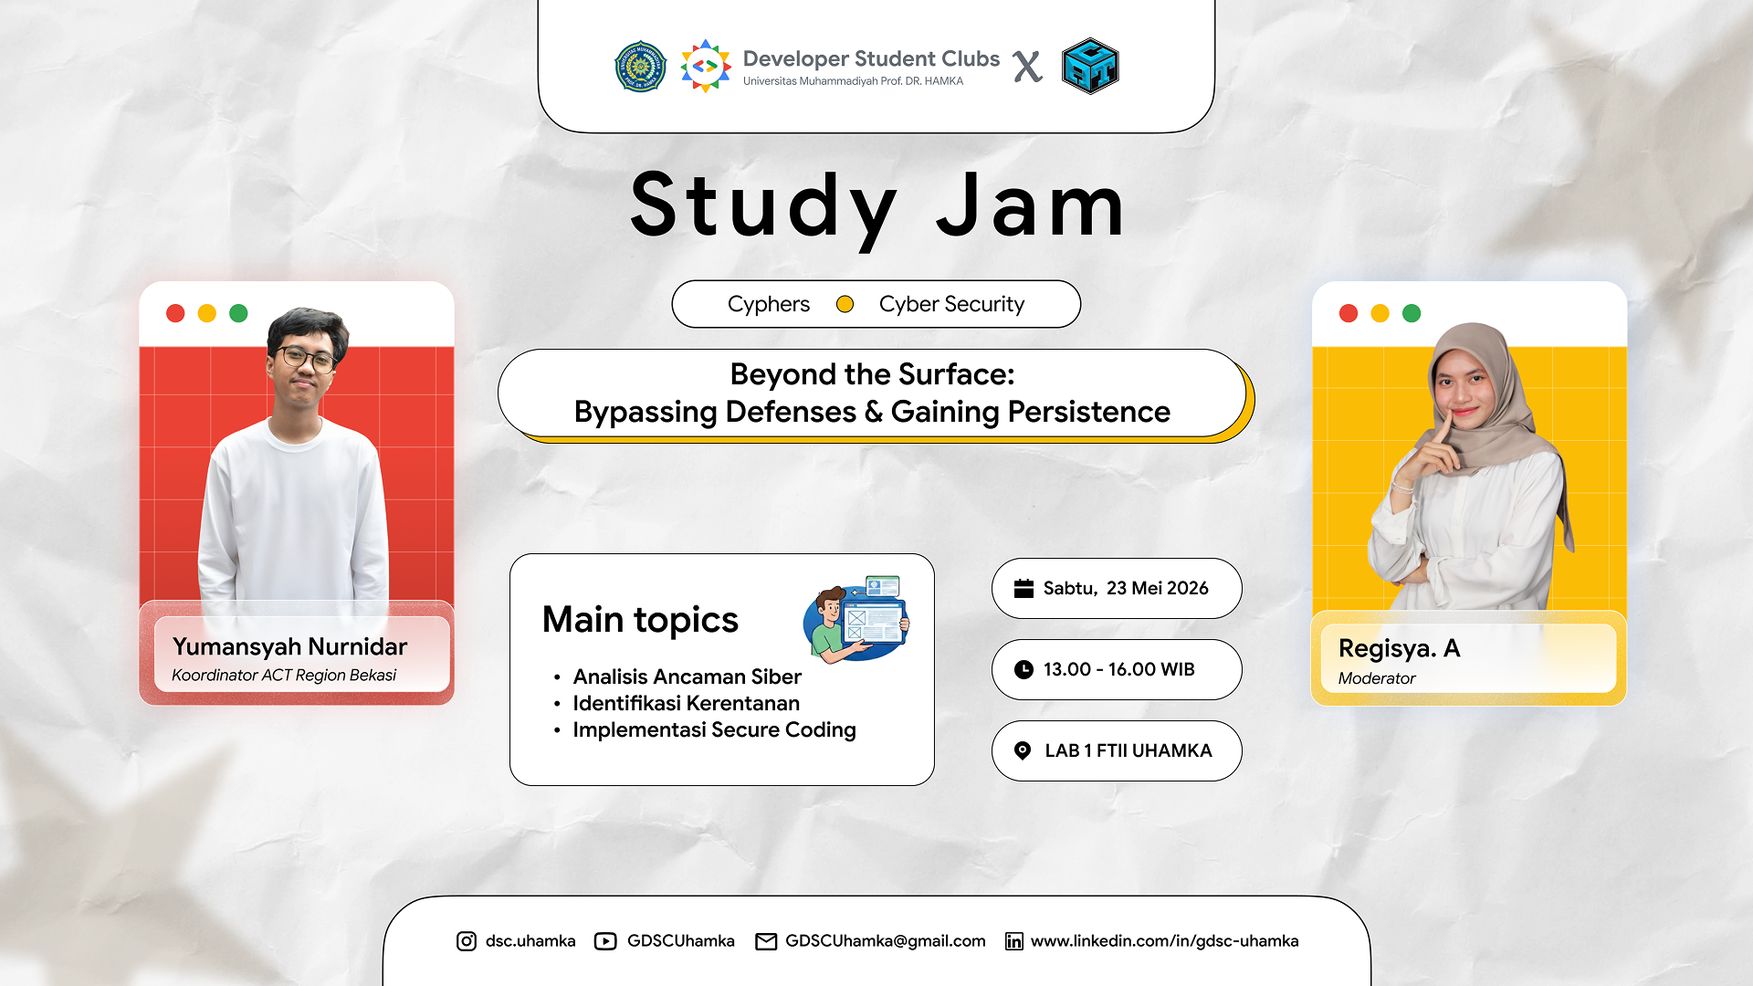
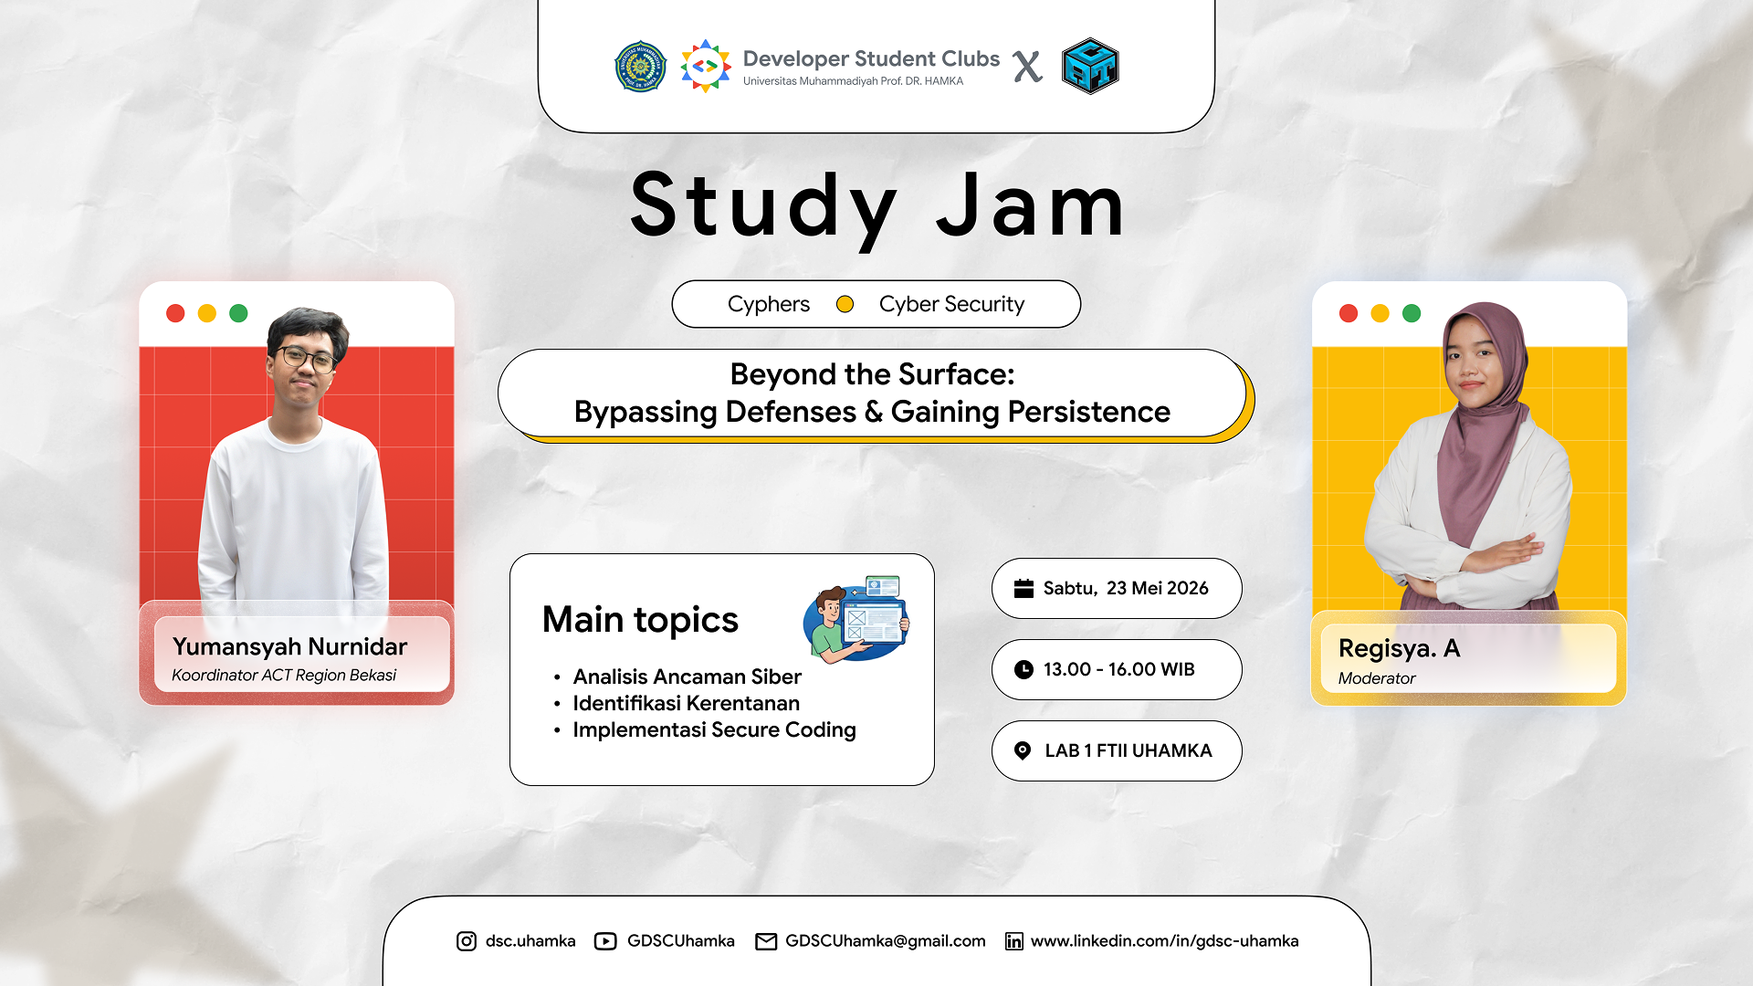
Update Terbaru

Changed region(s): [[0.7812, 0.3056, 0.9062, 0.6722], [0.7812, 0.7028, 0.9062, 0.7333]]

diff --git a/resources/css/app.css b/resources/css/app.css
@@ -19,7 +19,7 @@
 
      body {
     background: #ffffff;
-    font-family: 'Open Sans', sans-serif;
+    font-family: "Google Sans", sans-serif;
 }
 
 
@@ -30,6 +30,7 @@
     position: relative; /* Wajib ada agar gambar tidak lari ke luar section */
     overflow: hidden;    /* Agar jika gambar terlalu besar, tidak muncul scrollbar */
     text-align: center;
+    font-family: "Google Sans", sans-serif;
 }
 
 
@@ -993,12 +994,9 @@
 .footer-bottom {
     background-color: #FAFAFA; /* Warna abu-abu full */
   
-    width: 1000px;
+    width: 100%;
     position: relative;
-    left: 58.5%;
-    right: 50%;
-    margin-left: -50vw;
-    margin-right: -50vw;
+    
 }
 @media (max-width: 768px) {
     .footer-bottom {
@@ -1581,7 +1579,7 @@ body {
 }
 
 /* Container & Fonts */
-.container { font-family: 'Inter', sans-serif; }
+.container { font-family: "Google Sans", sans-serif; }
 
 .container-card {
     position: relative;

diff --git a/resources/views/team.blade.php b/resources/views/team.blade.php
@@ -53,16 +53,16 @@
                 <p class="text-primary small mb-1">PIC - Secretary</p>
                 <p class="text-muted small mb-3">Managing administration & community records.</p>
                 <div class="social-links-small">
-                    <a href="#" class="d-inline-block">
+                    <a href="https://www.linkedin.com/in/adinda-wulandari-anggraini-6254152b4?utm_source=share&utm_campaign=share_via&utm_content=profile&utm_medium=ios_app" class="d-inline-block">
             <img src="{{ asset('images/linkedin2.svg') }}" style="width: 20px; height: auto;">
         </a>
-                    <a href="#" class="d-inline-block">
+                    <a href="https://g.dev/adindawulandarianggraini" class="d-inline-block">
             <img src="{{ asset('images/code.svg') }}" style="width: 20px; height: auto;">
         </a>
                    <a href="#" class="d-inline-block">
             <img src="{{ asset('images/ig.svg') }}" style="width: 20px; height: auto;">
         </a>
-                    <a href="#" class="d-inline-block">
+                    <a href="https://github.com/adindawulandari" class="d-inline-block">
             <img src="{{ asset('images/github.svg') }}" style="width: 20px; height: auto;">
         </a>
                     
@@ -77,16 +77,16 @@
                 <p class="text-primary small mb-1">PIC - The Pixels</p>
                 <p class="text-muted small mb-3">Crafting intuitive & beautiful user experiences.</p>
                 <div class="social-links-small">
-                    <a href="#" class="d-inline-block">
+                    <a href="https://www.linkedin.com/in/firdaus-firmansyah-2027352a1/" class="d-inline-block">
             <img src="{{ asset('images/linkedin2.svg') }}" style="width: 20px; height: auto;">
         </a>
-                    <a href="#" class="d-inline-block">
+                    <a href="https://g.dev/daussaurus" class="d-inline-block">
             <img src="{{ asset('images/code.svg') }}" style="width: 20px; height: auto;">
         </a>
-                    <a href="#" class="d-inline-block">
+                    <a href="https://www.instagram.com/daussfh/" class="d-inline-block">
             <img src="{{ asset('images/ig.svg') }}" style="width: 20px; height: auto;">
         </a>
-                    <a href="#" class="d-inline-block">
+                    <a href="https://github.com/Firdaus-Firmansyah" class="d-inline-block">
             <img src="{{ asset('images/github.svg') }}" style="width: 20px; height: auto;">
         </a>
                 </div>
@@ -150,10 +150,10 @@
         </a>
             <img src="{{ asset('images/github.svg') }}" style="width: 20px; height: auto;">
         </a></div></div></div>
-        <div class="col-lg-3 col-md-6"><div class="member-card" style="text-align: left !important; align-items: flex-start !important;"><img src="images/ardi.webp" class="img-fluid rounded-4 mb-3"> <h5 class="fw-bold mb-1">Ardi Setiawan</h5><p class="text-primary small mb-1">The Pixels</p><p class="text-muted small mb-3">Crafting intuitive & beautiful user experiences.</p><div class="social-links-small"><a href="#" class="d-inline-block">
+        <div class="col-lg-3 col-md-6"><div class="member-card" style="text-align: left !important; align-items: flex-start !important;"><img src="images/ardi.webp" class="img-fluid rounded-4 mb-3"> <h5 class="fw-bold mb-1">Ardi Setiawan</h5><p class="text-primary small mb-1">The Pixels</p><p class="text-muted small mb-3">Crafting intuitive & beautiful user experiences.</p><div class="social-links-small"><a href="https://id.linkedin.com/in/ardi-setiawan1" class="d-inline-block">
             <img src="{{ asset('images/linkedin2.svg') }}" style="width: 20px; height: auto;">
         </a><a href="#" class="d-inline-block">
-            <a href="#" class="d-inline-block">
+            <a href="https://g.dev/ardisetiawan1" class="d-inline-block">
             <img src="{{ asset('images/code.svg') }}" style="width: 20px; height: auto;">
         </a>
                     <a href="#" class="d-inline-block">
@@ -161,26 +161,27 @@
         </a>
             <img src="{{ asset('images/github.svg') }}" style="width: 20px; height: auto;">
         </a></div></div></div>
-        <div class="col-lg-3 col-md-6"><div class="member-card" style="text-align: left !important; align-items: flex-start !important;"><img src="images/ziyah.webp" class="img-fluid rounded-4 mb-3"> <h5 class="fw-bold mb-1">Fauziyah Salsabila</h5><p class="text-primary small mb-1">The Vectors</p><p class="text-muted small mb-3">Building scalable web & mobile solutions.</p><div class="social-links-small"><a href="#" class="d-inline-block">
+        <div class="col-lg-3 col-md-6"><div class="member-card" style="text-align: left !important; align-items: flex-start !important;"><img src="images/ziyah.webp" class="img-fluid rounded-4 mb-3"> <h5 class="fw-bold mb-1">Fauziyah Salsabila</h5><p class="text-primary small mb-1">The Vectors</p><p class="text-muted small mb-3">Building scalable web & mobile solutions.</p><div class="social-links-small"><a href="https://www.linkedin.com/in/fauziyah-salsabila-64434331a?utm_source=share&utm_campaign=share_via&utm_content=profile&utm_medium=android_app" class="d-inline-block">
             <img src="{{ asset('images/linkedin2.svg') }}" style="width: 20px; height: auto;">
-        </a><a href="#" class="d-inline-block">
-            <a href="#" class="d-inline-block">
+        </a>
+            <a href="https://g.dev/fauziyah" class="d-inline-block">
             <img src="{{ asset('images/code.svg') }}" style="width: 20px; height: auto;">
         </a>
-                    <a href="#" class="d-inline-block">
+                    <a href="https://www.instagram.com/ziyahslsa/?utm_source=ig_web_button_share_sheet" class="d-inline-block">
             <img src="{{ asset('images/ig.svg') }}" style="width: 20px; height: auto;">
-        </a>
+        </a><a href="https://github.com/ziyasalsa" class="d-inline-block">
             <img src="{{ asset('images/github.svg') }}" style="width: 20px; height: auto;">
         </a></div></div></div>
-        <div class="col-lg-3 col-md-6"><div class="member-card" style="text-align: left !important; align-items: flex-start !important;"><img src="images/deta.webp" class="img-fluid rounded-4 mb-3"> <h5 class="fw-bold mb-1">Regissya Anfieldasari F. A.</h5><p class="text-primary small mb-1">The Cyphers</p><p class="text-muted small mb-3">Securing systems & exploring IoT connectivity.</p><div class="social-links-small"><a href="#" class="d-inline-block">
+        <div class="col-lg-3 col-md-6"><div class="member-card" style="text-align: left !important; align-items: flex-start !important;"><img src="images/deta.webp" class="img-fluid rounded-4 mb-3"> <h5 class="fw-bold mb-1">Regissya Anfieldasari F. A.</h5><p class="text-primary small mb-1">The Cyphers</p><p class="text-muted small mb-3">Securing systems & exploring IoT connectivity.</p><div class="social-links-small"><a href="http://www.linkedin.com/in/regissya-anfieldasari-1b4a0b348" class="d-inline-block">
             <img src="{{ asset('images/linkedin2.svg') }}" style="width: 20px; height: auto;">
-        </a><a href="#" class="d-inline-block">
-            <a href="#" class="d-inline-block">
+        </a>
+            <a href="https://developers.google.com/profile/u/RegissyaAnfieldasari" class="d-inline-block">
             <img src="{{ asset('images/code.svg') }}" style="width: 20px; height: auto;">
         </a>
-                    <a href="#" class="d-inline-block">
+                    <a href="https://www.instagram.com/anfld__?igsh=MWV1am12NzIyMWk1Zg==" class="d-inline-block">
             <img src="{{ asset('images/ig.svg') }}" style="width: 20px; height: auto;">
         </a>
+             <a href="https://github.com/gyuuniversee" class="d-inline-block">
             <img src="{{ asset('images/github.svg') }}" style="width: 20px; height: auto;">
         </a></div></div></div>
 
@@ -210,15 +211,16 @@
         </a>
             <img src="{{ asset('images/github.svg') }}" style="width: 20px; height: auto;">
         </a></div></div></div>
-        <div class="col-lg-3 col-md-6"><div class="member-card" style="text-align: left !important; align-items: flex-start !important;"><img src="images/indah.webp" class="img-fluid rounded-4 mb-3"> <h5 class="fw-bold mb-1">Adisyah Indah Nurkusuma</h5><p class="text-primary small mb-1">The Vectors</p><p class="text-muted small mb-3">Building scalable web & mobile solutions.</p><div class="social-links-small"><a href="#" class="d-inline-block">
+        <div class="col-lg-3 col-md-6"><div class="member-card" style="text-align: left !important; align-items: flex-start !important;"><img src="images/indah.webp" class="img-fluid rounded-4 mb-3"> <h5 class="fw-bold mb-1">Adisyah Indah Nurkusuma</h5><p class="text-primary small mb-1">The Vectors</p><p class="text-muted small mb-3">Building scalable web & mobile solutions.</p><div class="social-links-small"><a href="https://www.linkedin.com/in/adisyah-indah-nurkusuma-297b172b3?utm_source=share&utm_campaign=share_via&utm_content=profile&utm_medium=android_app" class="d-inline-block">
             <img src="{{ asset('images/linkedin2.svg') }}" style="width: 20px; height: auto;">
-        </a><a href="#" class="d-inline-block">
-            <a href="#" class="d-inline-block">
+        </a>
+            <a href="https://g.dev/Adisyah65" class="d-inline-block">
             <img src="{{ asset('images/code.svg') }}" style="width: 20px; height: auto;">
         </a>
-                    <a href="#" class="d-inline-block">
+                    <a href="https://www.instagram.com/dsyh.ndh?igsh=MTNzanR2ejF2aW1pdw==" class="d-inline-block">
             <img src="{{ asset('images/ig.svg') }}" style="width: 20px; height: auto;">
         </a>
+            <a href="https://github.com/Adisyah65" class="d-inline-block">
             <img src="{{ asset('images/github.svg') }}" style="width: 20px; height: auto;">
         </a></div></div></div>
         <div class="col-lg-3 col-md-6"><div class="member-card" style="text-align: left !important; align-items: flex-start !important;"><img src="images/aura.webp" class="img-fluid rounded-4 mb-3"> <h5 class="fw-bold mb-1">Aura Shyifa Aulia</h5><p class="text-primary small mb-1">The Cyphers</p><p class="text-muted small mb-3">Securing systems & exploring IoT connectivity.</p><div class="social-links-small"><a href="#" class="d-inline-block">
@@ -244,15 +246,16 @@
         </a>
             <img src="{{ asset('images/github.svg') }}" style="width: 20px; height: auto;">
         </a></div></div></div>
-        <div class="col-lg-3 col-md-6"><div class="member-card" style="text-align: left !important; align-items: flex-start !important;"><img src="images/rifqi.webp" class="img-fluid rounded-4 mb-3"> <h5 class="fw-bold mb-1">Rifqi Hakim</h5><p class="text-primary small mb-1">The Vectors</p><p class="text-muted small mb-3">Building scalable web & mobile solutions.</p><div class="social-links-small"><a href="#" class="d-inline-block">
+        <div class="col-lg-3 col-md-6"><div class="member-card" style="text-align: left !important; align-items: flex-start !important;"><img src="images/rifqi.webp" class="img-fluid rounded-4 mb-3"> <h5 class="fw-bold mb-1">Rifqi Hakim</h5><p class="text-primary small mb-1">The Vectors</p><p class="text-muted small mb-3">Building scalable web & mobile solutions.</p><div class="social-links-small"><a href="https://www.linkedin.com/in/rifqi-hakim875094285/" class="d-inline-block">
             <img src="{{ asset('images/linkedin2.svg') }}" style="width: 20px; height: auto;">
         </a><a href="#" class="d-inline-block">
-            <a href="#" class="d-inline-block">
+            <a href="https://g.dev/rfqiih" class="d-inline-block">
             <img src="{{ asset('images/code.svg') }}" style="width: 20px; height: auto;">
         </a>
-                    <a href="#" class="d-inline-block">
+                    <a href="https://www.instagram.com/rfqiih?utm_source=ig_web_button_share_sheet&igsh=ZDNlZDc0MzIxNw==" class="d-inline-block">
             <img src="{{ asset('images/ig.svg') }}" style="width: 20px; height: auto;">
         </a>
+            <a href="https://github.com/payscriptt" class="d-inline-block">
             <img src="{{ asset('images/github.svg') }}" style="width: 20px; height: auto;">
         </a></div></div></div>
         <div class="col-lg-3 col-md-6"><div class="member-card" style="text-align: left !important; align-items: flex-start !important;"><img src="images/regis.webp" class="img-fluid rounded-4 mb-3"> <h5 class="fw-bold mb-1">Regissya Anfieldasari F.A.</h5><p class="text-primary small mb-1">The Cyphers</p><p class="text-muted small mb-3">Securing systems & exploring IoT connectivity.</p><div class="social-links-small"><a href="#" class="d-inline-block">
@@ -278,15 +281,16 @@
             <img src="{{ asset('images/github.svg') }}" style="width: 20px; height: auto;">
         </a></div></div></div>
 
-        <div class="col-lg-3 col-md-6"><div class="member-card" style="text-align: left !important; align-items: flex-start !important;"><img src="images/jelita.webp" class="img-fluid rounded-4 mb-3"> <h5 class="fw-bold mb-1">Jelita Eka Putri Rahmadhani </h5><p class="text-primary small mb-1">Content Writer</p><p class="text-muted small mb-3">Storytelling the journey of our community.</p><div class="social-links-small"><a href="#" class="d-inline-block">
+        <div class="col-lg-3 col-md-6"><div class="member-card" style="text-align: left !important; align-items: flex-start !important;"><img src="images/jelita.webp" class="img-fluid rounded-4 mb-3"> <h5 class="fw-bold mb-1">Jelita Eka Putri Rahmadhani </h5><p class="text-primary small mb-1">Content Writer</p><p class="text-muted small mb-3">Storytelling the journey of our community.</p><div class="social-links-small"><a href="https://www.linkedin.com/in/lita-lita" class="d-inline-block">
             <img src="{{ asset('images/linkedin2.svg') }}" style="width: 20px; height: auto;">
-        </a><a href="#" class="d-inline-block">
-            <a href="#" class="d-inline-block">
+        </a>
+            <a href="https://developers.google.com/profile/u/104676974325743817914/edit" class="d-inline-block">
             <img src="{{ asset('images/code.svg') }}" style="width: 20px; height: auto;">
         </a>
-                    <a href="#" class="d-inline-block">
+                    <a href="https://www.instagram.com/putriouz_?igsh=NWxqd3FoZ3A5MnV1" class="d-inline-block">
             <img src="{{ asset('images/ig.svg') }}" style="width: 20px; height: auto;">
         </a>
+             <a href="https://github.com/settings/profile" class="d-inline-block">
             <img src="{{ asset('images/github.svg') }}" style="width: 20px; height: auto;">
         </a></div></div></div>
         <div class="col-lg-3 col-md-6"><div class="member-card" style="text-align: left !important; align-items: flex-start !important;"><img src="images/rakha.webp" class="img-fluid rounded-4 mb-3"> <h5 class="fw-bold mb-1">Rakha Arrayyan Ramdhan</h5><p class="text-primary small mb-1">Graphic Design</p><p class="text-muted small mb-3">Visualizing ideas into stunning creative assets..</p><div class="social-links-small"><a href="#" class="d-inline-block">

diff --git a/resources/views/home.blade.php b/resources/views/home.blade.php
@@ -48,7 +48,7 @@
                 <img src="{{ asset('images/Active.svg') }}">
                 <i class="fas fa-calendar-alt"></i> </div>
             <div class="content">
-                <h2 class="number">20</h2>
+                <h2 class="number">272</h2>
                 <p class="label-1">Active Members</p>
             </div>
         </div>
@@ -58,7 +58,7 @@
                 <img src="{{ asset('images/Events.svg') }}">
                 <i class="fas fa-calendar-alt"></i> </div>
             <div class="content">
-                <h2 class="number">2</h2>
+                <h2 class="number">29</h2>
                 <p class="label">Events Held</p>
             </div>
         </div>
@@ -229,7 +229,9 @@
     </div>
 
 </section>
-<h2 class="container my-5 fw-bold mb-4">Upcoming activities</h2>
+
+<h2 class="container my-5 fw-bold mb-4">Past Activities</h2>
+ {{--
 <div class="mt-5 d-flex flex-column align-items-center">
 <div class="empty-event-card w-100">
             <img src="{{ asset('images/Icon-Dino.svg') }}" class="icon-circle-img" alt="No Event">
@@ -240,56 +242,38 @@
             <button class="btn-notify">Notify Me</button>
         </div>
     </div>
-{{--
-<section class="container my-5">
-    
-    
-    <div class="row g-4">
-            <div class="card custom-card">
-                <div class="img-wrapper">
-                    <img src="{{ asset('images/instagram.png') }}" class="card-img-top" alt="Intro to Flutter">
-                </div>
-                <div class="card-body">
-                    <h5 class="card-title fw-bold">Intro to Flutter</h5>
-                    <p class="card-text text-muted small">Learn the basics of building cross-platform apps with Google's UI toolkit.</p>
-                </div>
-                <div class="card-footer bg-transparent border-0 d-flex justify-content-between align-items-center pb-3">
-                    <small class="text-muted">Offline at campus FTII Uhamka</small>
-                    <a href="#" class="text-primary text-decoration-none ">Register &rarr;</a>
-                </div>
-            </div>
-
-            <div class="card  custom-card">
-                <div class="img-wrapper">
-                    <img src="{{ asset('images/instagram.png') }}" class="card-img-top" alt="Intro to Flutter">
-                </div>
-                <div class="card-body">
-                    <h5 class="card-title fw-bold">Intro to Flutter</h5>
-                    <p class="card-text text-muted small">Learn the basics of building cross-platform apps with Google's UI toolkit.</p>
-                </div>
-                <div class="card-footer bg-transparent border-0 d-flex justify-content-between align-items-center pb-3">
-                    <small class="text-muted">Offline at campus FTII Uhamka</small>
-                    <a href="#" class="text-primary text-decoration-none ">Register &rarr;</a>
-                </div>
-            </div>
-
-            <div class="card  custom-card">
-                <div class="img-wrapper">
-                    <img src="{{ asset('images/instagram.png') }}" class="card-img-top" alt="Intro to Flutter">
-                </div>
-                <div class="card-body">
-                    <h5 class="card-title fw-bold">Intro to Flutter</h5>
-                    <p class="card-text text-muted small">Learn the basics of building cross-platform apps with Google's UI toolkit.</p>
-                </div>
-                <div class="card-footer bg-transparent border-0 d-flex justify-content-between align-items-center pb-3">
-                    <small class="text-muted">Offline at campus FTII Uhamka</small>
-                    <a href="#" class="text-primary text-decoration-none ">Register &rarr;</a>
-                </div>
-            </div>
-
-    </div>
-</section>
 --}}
+<div id="past-content" style="display: none;">
+    <div class="row g-4">
+        <div class="col-md-4">
+            <div class="event-card-past shadow-sm">
+                <div class="card-header-img">
+                    <img src="images/CrashCourse.png" alt="Event Poster">
+                    <span class="badge-ended">ENDED</span>
+                    <span class="badge-category">The Pixels</span>
+                    <div class="overlay-type">Crash Course</div>
+                </div>
+
+                <div class="card-body-past">
+                    <h5 class="event-title1">Crash Course UI/UX Design</h5>
+                    <div class="event-date">
+                        <img src="{{ asset('images/cal.svg') }}" width="18">
+                        <span>30 May 2025</span>
+                    </div>
+                    
+                    <hr class="divider">
+                    
+                    <a href="{{ url('/event/gallery/crash-course-uiux') }}" class="view-gallery">
+                        <img src="{{ asset('images/img.svg') }}" width="20"> 
+                        <span>View Gallery</span>
+                    </a>
+                </div>
+            </div>
+        </div>
+
+        </div>
+</div>
+
 <section>
 <div class="team-header"> <br>
     <h1 class="fw-bold" style="text-align: center;">Our Partners</h1>

diff --git a/resources/views/show-gallery.blade.php b/resources/views/show-gallery.blade.php
@@ -5,6 +5,7 @@
         <img src="{{ asset('images/CC.png') }}" class="main-poster" alt="Event Poster">
         <div class="header-content">
             <h1 class="event-title-detail">Crash Course UI/UX Design</h1>
+            <p > Bikin bukan asal bikin: Gimana cara desainer nentuin solusi yang tepat buat user</p>
             <p class="text-muted"><i class="bi bi-calendar"></i> 30 May 2025</p>
             <div class="description mt-4">
                 <p>Event Crash Course UI/UX Design ini sukses diselenggarakan untuk membantu kreator digital memahami fundamental desain berbasis pengguna (User-Centered Design). Sorotan utama dari kegiatan ini meliputi:</p>
@@ -17,8 +18,8 @@
     </div>
 
     <div class="team-section">
-        <h2 class="fw-bold">Meet the team</h2>
-        <p class="text-muted">Orang-orang terbaik dibalik suksesnya BKP Mandiri</p>
+        <h2 class="fw-bold">Gallery</h2>
+
         
         <div class="gallery-grid">
             <div class="gallery-item">

diff --git a/resources/views/events-detail.blade.php b/resources/views/events-detail.blade.php
@@ -257,10 +257,10 @@
                 <div class="speaker-list">
                     <div class="speaker-item">
                         <div class="avatar-wrapper orange-border">
-                            <img src="{{ asset('images/Regisa.webp') }}">
+                            <img src="{{ asset('images/detaa.png') }}">
                         </div>
                         <div class="speaker-info">
-                            <h5 class="fw-bold">Regisya. A</h5>
+                            <h5 class="fw-bold">Deeta Zamel Aulia</h5>
                             <p class="desc">MODERATOR</p>
                             <div class="speaker-tags">
                   <span class="s-tag">Core Team DSC Uhamka</span>
